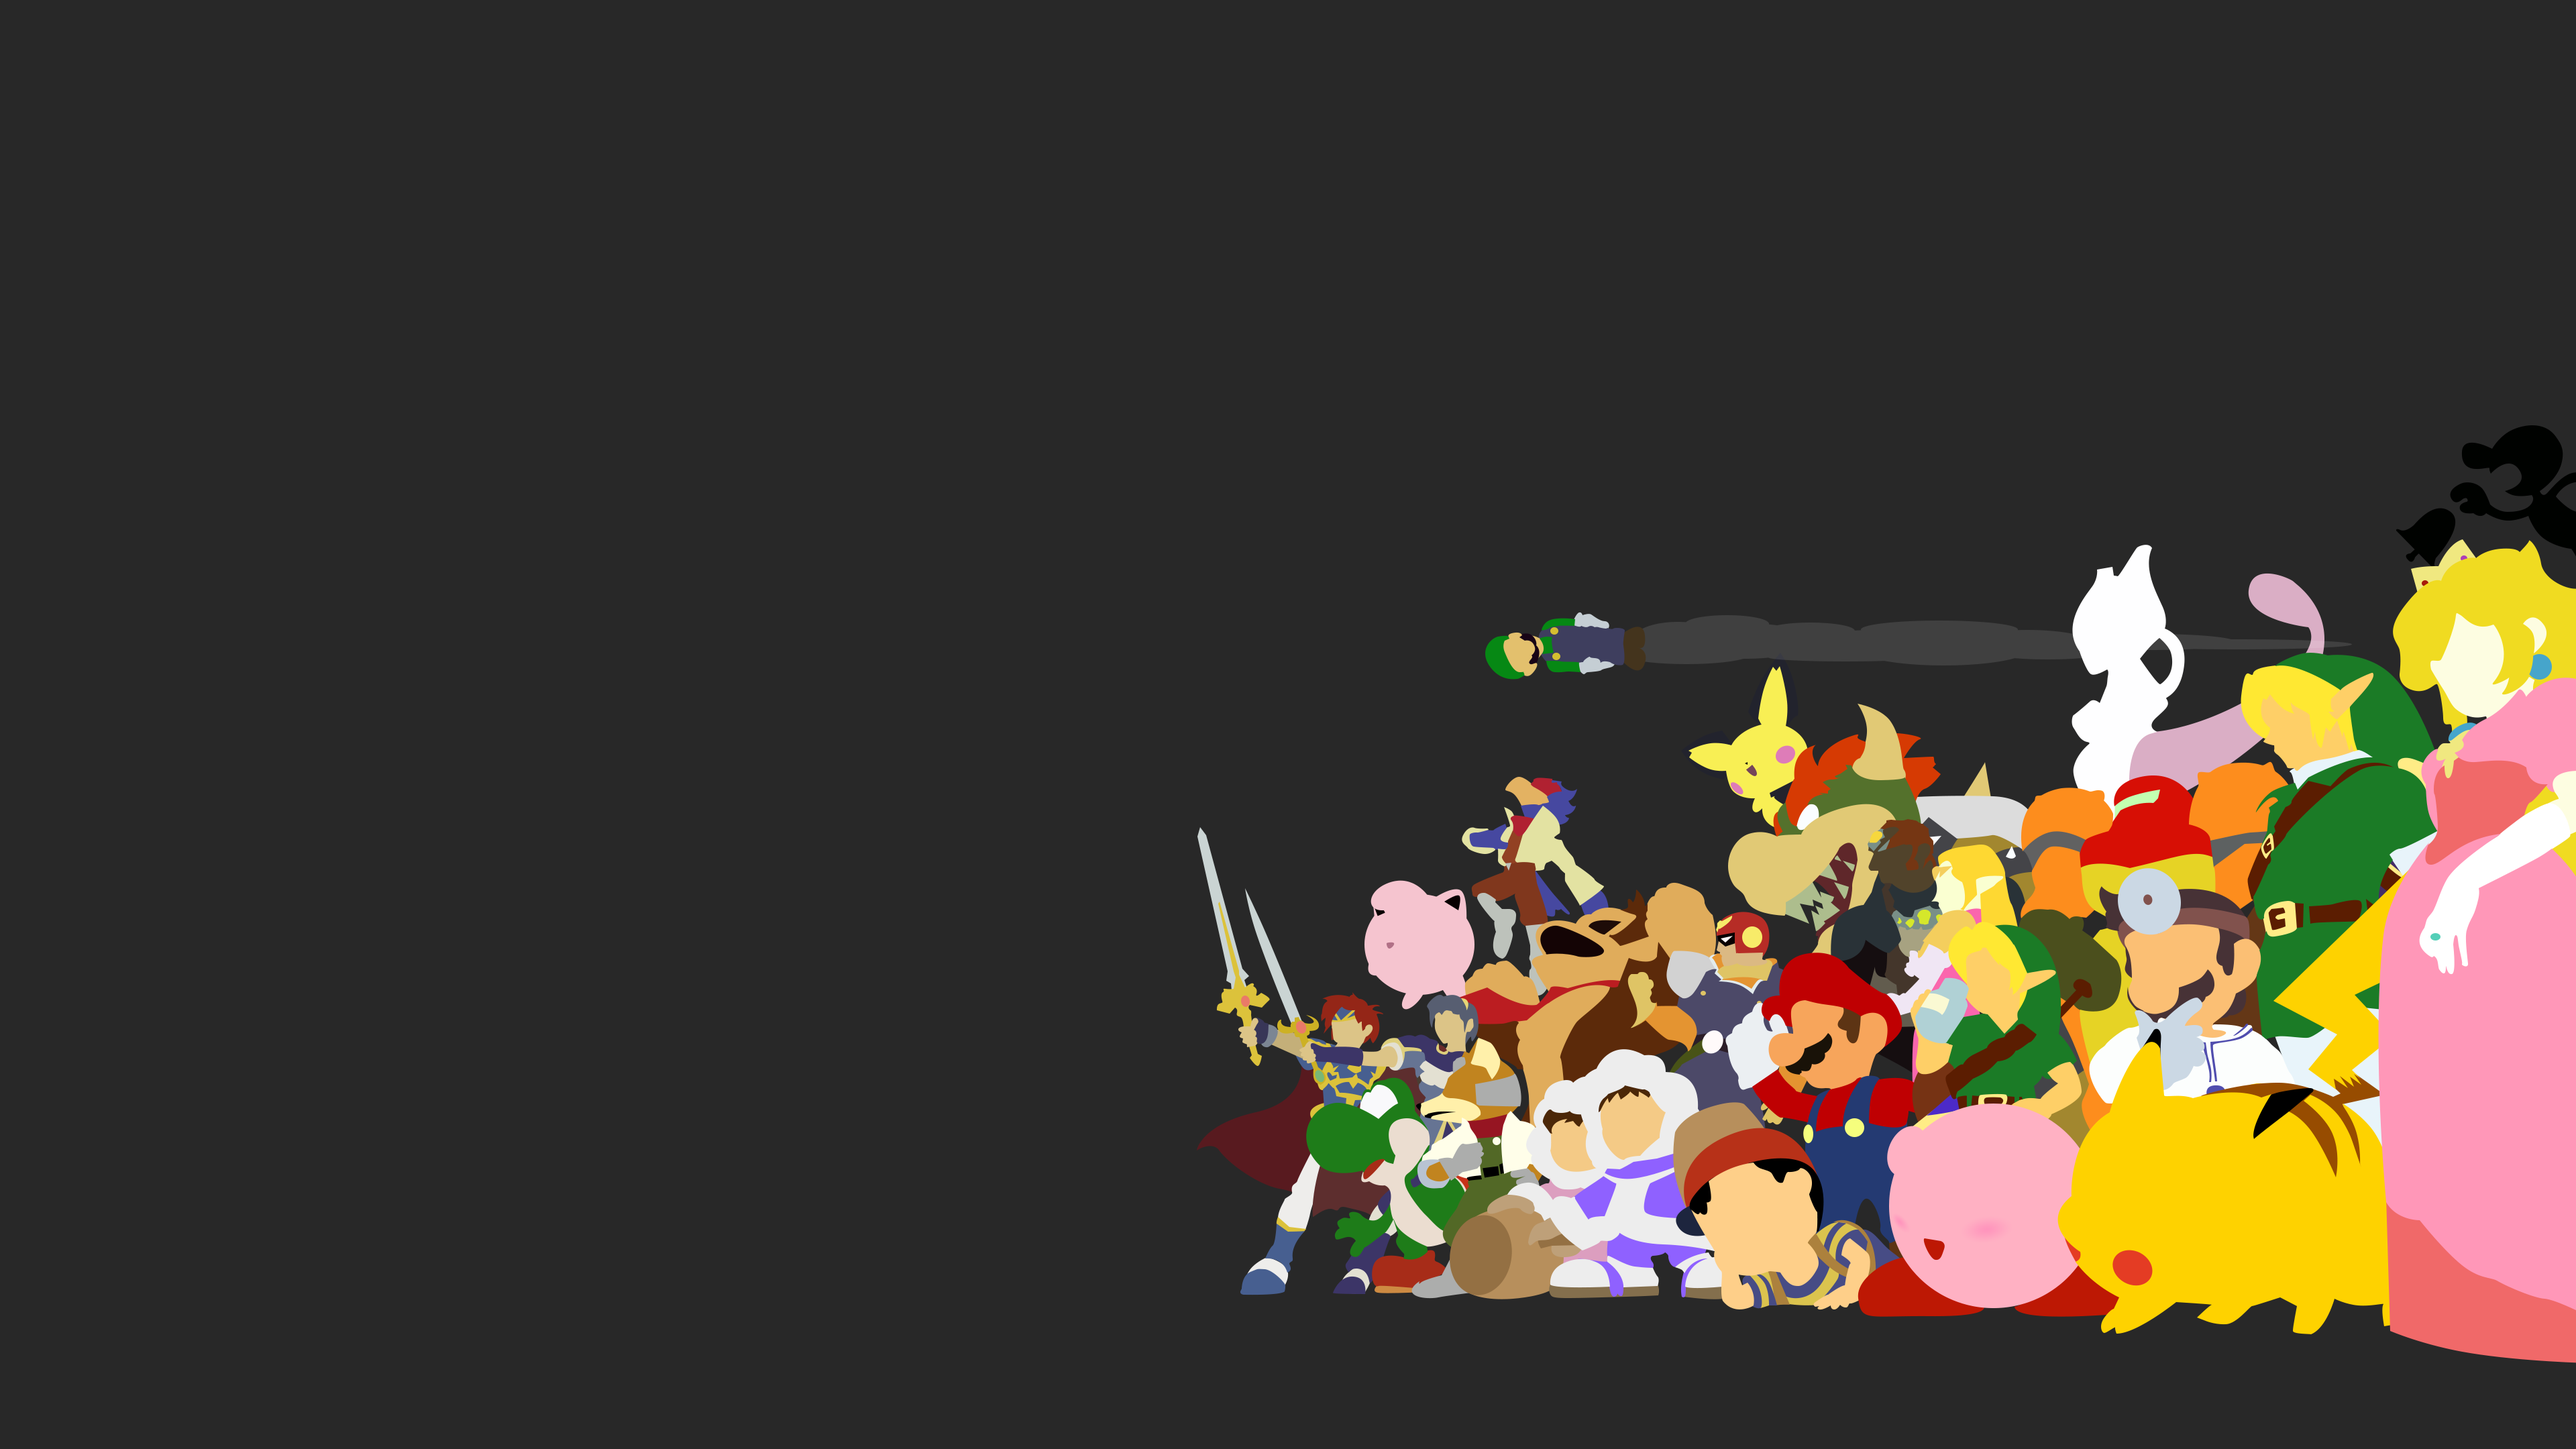
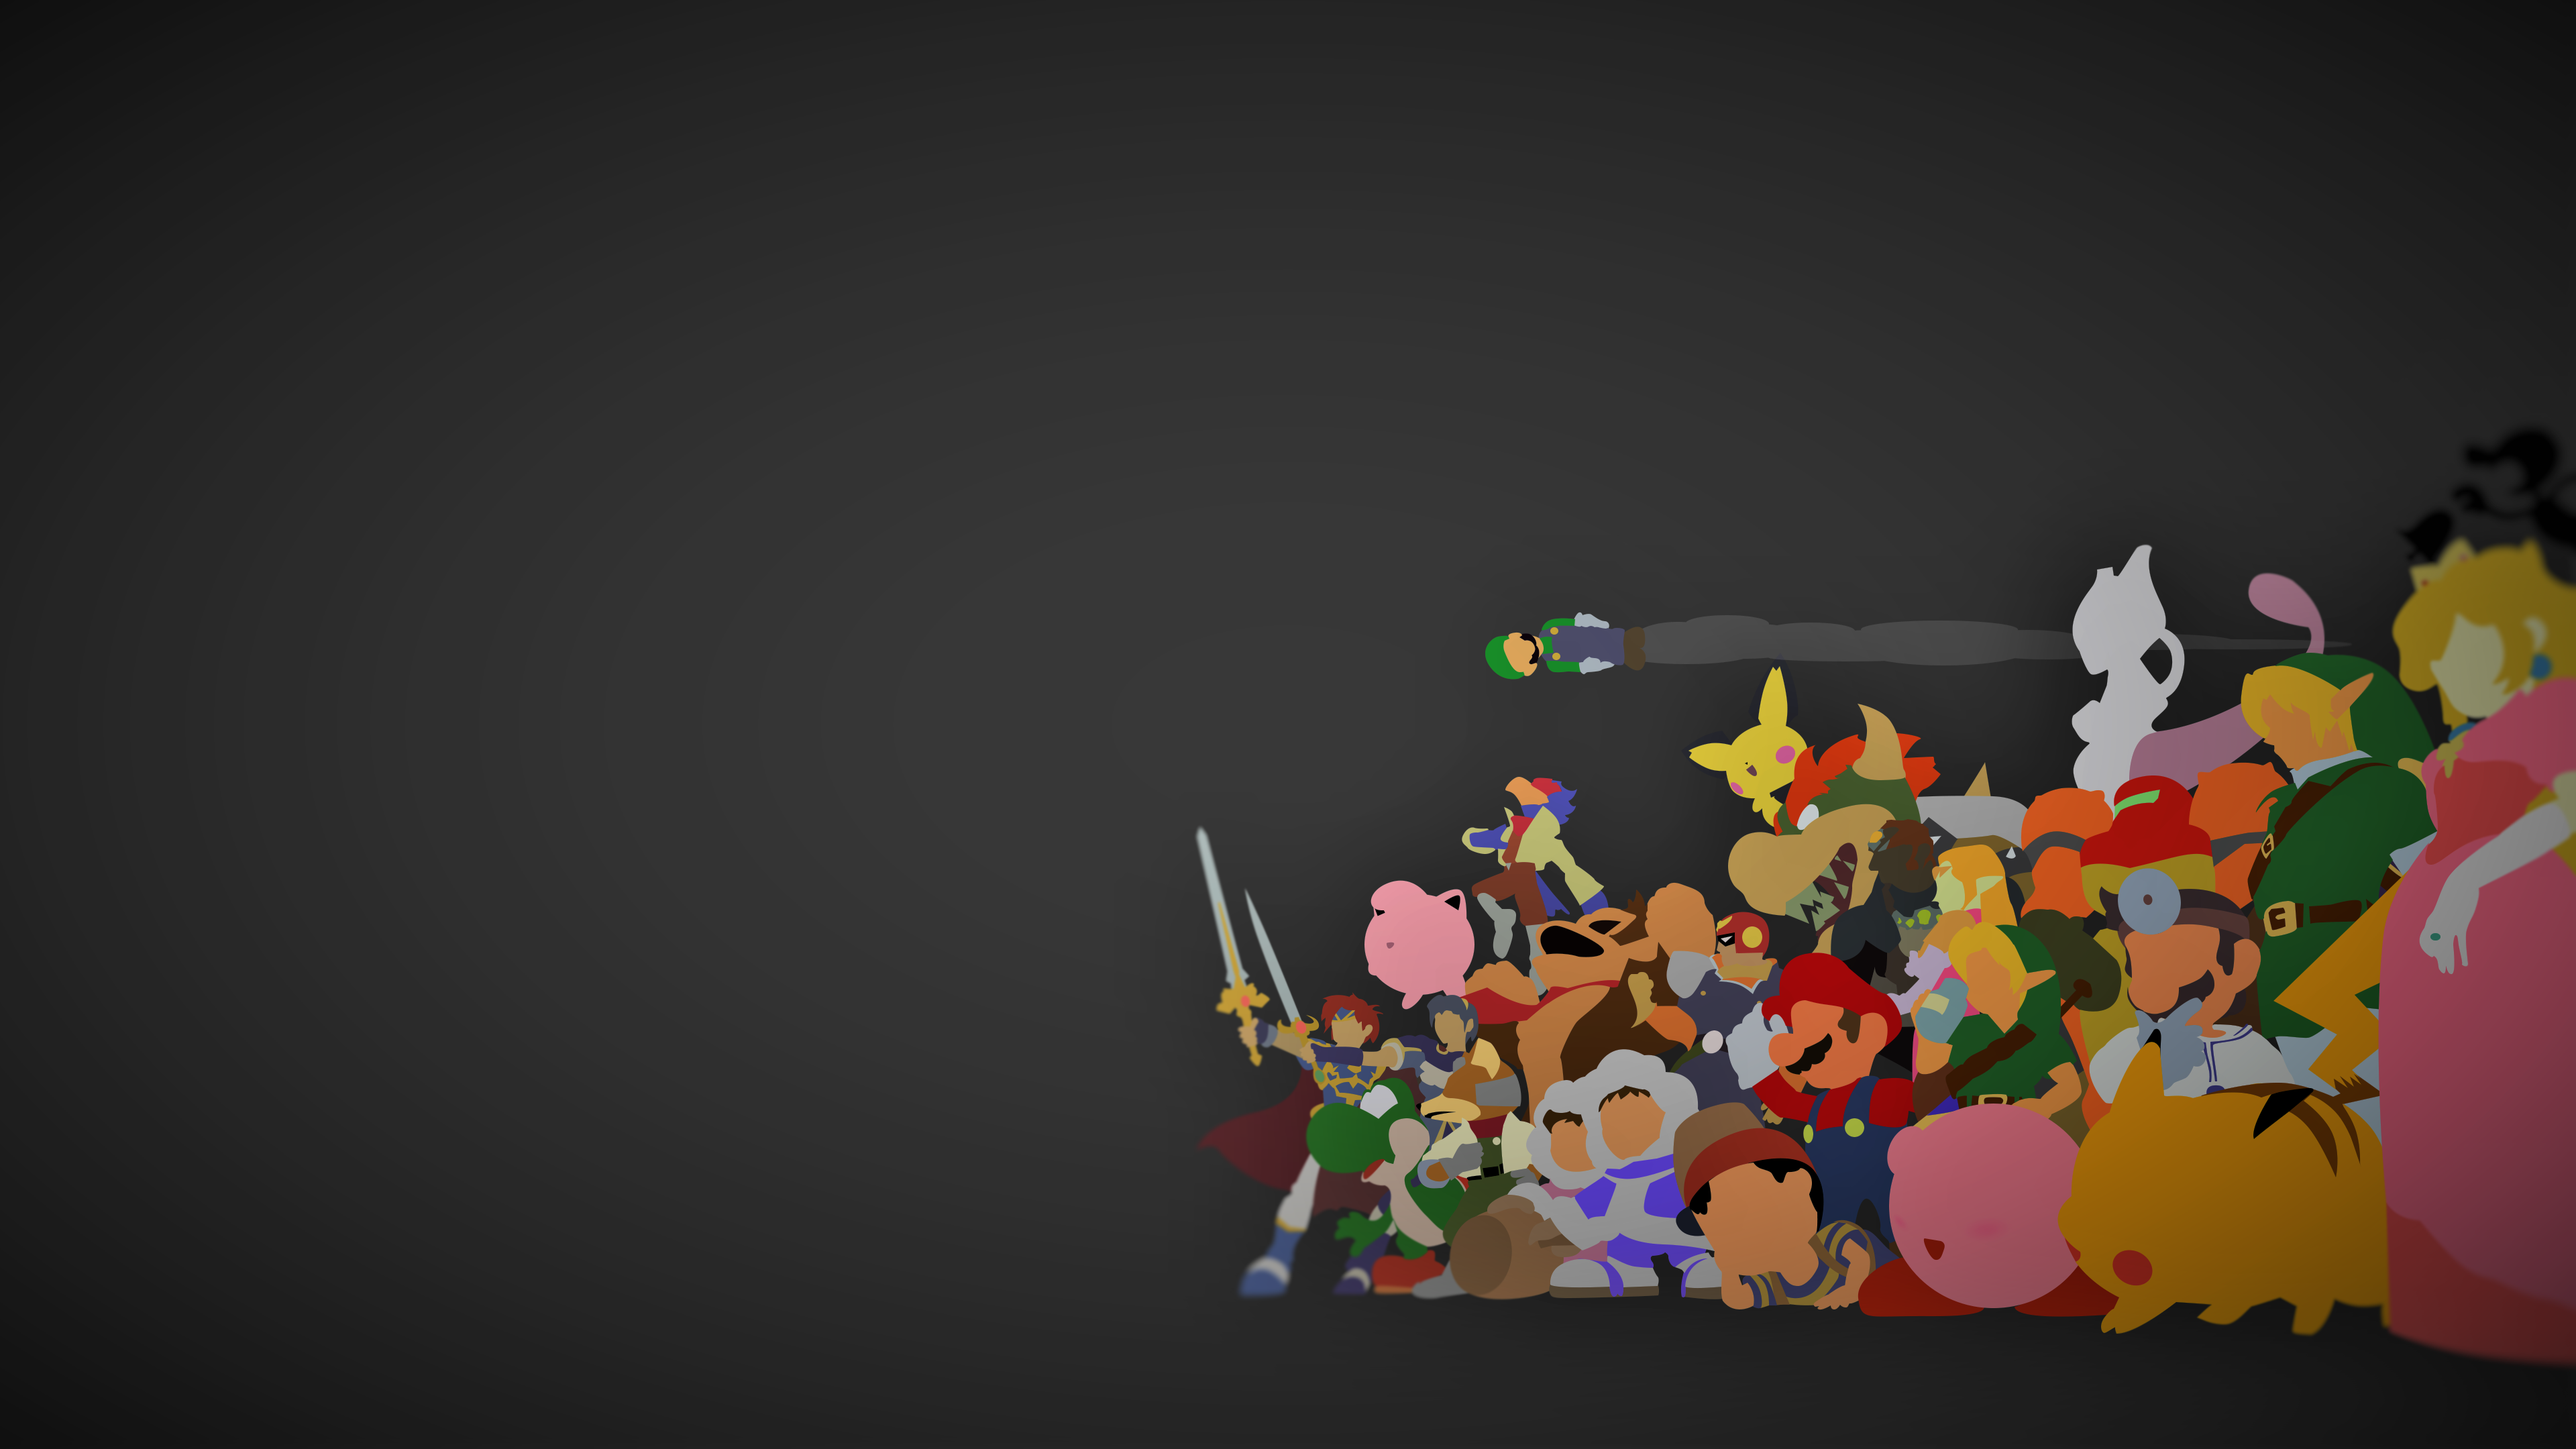
mejora de la pagina

Changed region(s): [[0.4688, 0.3722, 1.0, 1.0], [0.5625, 0.4343, 0.625, 0.4653]]

diff --git a/index.html b/index.html
@@ -37,7 +37,7 @@
 		</script>
 	</head>
 	<body id="top">
-
+					
 		<!-- Header -->
 			<header id="header">
 				<a href="#" class="image avatar"><img src="images/avatar.jpg" alt="" /></a>
@@ -96,7 +96,6 @@
 							</article>
 							<article id="super-mario" class="6u 12u$(xsmall) work-item">
 								<a href="images/fulls/mainTitle.png" class="image fit thumb"><img src="images/thumbs/mainTitle.png" alt="" /></a>
-								<a href="images/fulls/memoryGame.png" ><img alt="" /></a>
 								<h3>Super Mario Game</h3>
 								<p>A Super Mario Game powered by Quintus engine to try this engine.</p>
 								<a href="https://github.com/DGMonkeyKing/Super-Mario" target="_blank" >Link to the source</a>
@@ -120,7 +119,7 @@
 								<a href="videos/videos.html" data-poptrox="iframe,1042x740" class="image fit thumb"><img src="images/thumbs/acbtg.png" alt="" /></a>
 								<h3>Another Choosen by the Goddess</h3>
 								<p>An adventure game based on Zelda's games.</p>
-								<a href="descarga.php?file=AnotherChoosenByTheGoddess.zip" target="_blank">Download the game!</a>
+								<a href="downloads/AnotherChoosenByTheGoddess.zip" target="_blank">Download the game!</a> 
 								<a href="games/acbtg/Build.html" style="float:right;" >GIVE IT A TRY!</a>
 							</article>
 						</div>
@@ -508,14 +507,19 @@ print 'It took ' + i + ' iterations to sort the deck.';</code></pre>
 					<p>15 days with childrens from 4 to 13 years (lunchtime and free time)</p>
 					<h4>Salzillo Valle-Inclán School(Móstoles)</h4>
 					<p>15 days with childrens from 4 to 13 years (lunchtime and free time)</p>	
+					<h3>KNOWLEDGE AS A COMPUTER ENGINEER</h3>
+					<ul>
+						<li>Windows and Linux Systems user. Bash Command Line and scripting lenguages.</li>
+						<li>High knowledge on: C, C++, Java, Javascript, C#, HTML,CSS, MySQL, Octave and Matlab</li>
+						<li>Knowledge in other lenguages: Python, Jess, Prolog, Ruby, Ruby on Rails and Objective-C.</li>
+						<li>Wide experience in APIs as OpenGL, OpenCL, CUDA, OpenMP, OpenACC and MPI (used for parallel programing and graphic enviroments)</li>
+						<li>Experience with IDEs: Eclipse, Android Studio, Visual Studio and MonoDeveloper.</li>
+						<li>Experience with Unity3D, Unreal Engine and Quintus</li>
+					</ul>
 					<h3>LENGUAGES</h3>
 					<h4>English</h4>
 					<p>Speaking: B1.3</br>
 					Reading/Writing: B2.1</br>
-					Speaking: B1.3</p>
-				<!--	<h3>KNOWLEDGE AS A COMPUTER ENGINEER</h3>
-					<h4></h4>
-					<p></p>	-->
 					<h3>OTHER INTERESTING FACTS</h3>
 					<h4>Third place in the parallel programming contest held nationwide in Córdoba on 2015</h4>
 					<a href="http://luna.inf.um.es/2015/results.php" target="_blank">Link to the contest's ranking</a>

diff --git a/assets/css/main.css b/assets/css/main.css
@@ -18,6 +18,7 @@
 
 	body {
 		line-height: 1;
+		
 	}
 
 	ol, ul {
@@ -1560,7 +1561,7 @@
 		}
 
 	body, input, select, textarea {
-		color: #a2a2a2;
+		color: #515151;
 		font-family: "Source Sans Pro", Helvetica, sans-serif;
 		font-size: 16pt;
 		font-weight: 400;
@@ -1584,7 +1585,7 @@
 		}
 
 	strong, b {
-		color: #787878;
+		color: #ffffff;
 		font-weight: 400;
 	}
 
@@ -1597,7 +1598,7 @@
 	}
 
 	h1, h2, h3, h4, h5, h6 {
-		color: #787878;
+		color: rgba(255, 255, 255, 1);
 		font-weight: 400;
 		line-height: 1em;
 		margin: 0 0 1em 0;
@@ -1614,21 +1615,25 @@
 	}
 
 	h2 {
+		color: rgba(255, 255, 255, 0.9);
 		font-size: 1.5em;
 		line-height: 1.5em;
 	}
 
 	h3 {
+		color: rgba(255, 255, 255, 0.85);
 		font-size: 1.25em;
 		line-height: 1.5em;
 	}
 
 	h4 {
+		color: rgba(255, 255, 255, 0.8);
 		font-size: 1.1em;
 		line-height: 1.5em;
 	}
 
 	h5 {
+		color: rgba(255, 255, 255, 1);
 		font-size: 0.9em;
 		line-height: 1.5em;
 	}
@@ -1750,7 +1755,7 @@
 	}
 
 	label {
-		color: #CBCBCB;
+		color: rgba(0, 0, 0, 0.8);
 		display: block;
 		font-size: 2em;
 		font-weight: 400;
@@ -1775,6 +1780,10 @@
 		padding: 0 0.75em;
 		text-decoration: none;
 		width: 100%;
+	}
+	
+	textarea, input[type="text"], input[type="email"] {
+		background: rgba(230, 230, 230, 0.8);
 	}
 
 		input[type="text"]:invalid,
@@ -2456,7 +2465,15 @@
 			font-size: 0.8em;
 			line-height: 1.5em;
 		}
-
+		
+	#top{
+		background: url("../../images/nintend.png") no-repeat center center fixed; 
+		background-repeat: no-repeat;
+		background-attachment: fixed;
+		background-size: 100%;
+	}
+		
+		
 /* Header */
 
 	#header {
@@ -3043,6 +3060,14 @@
 					margin-top: -1em;
 				}
 
+	}
+	
+	p {
+		color: rgba(255, 255, 255, 0.7);
+	}
+	
+	ul {
+		color: rgba(255, 255, 255, 0.6);
 	}
 
 	
